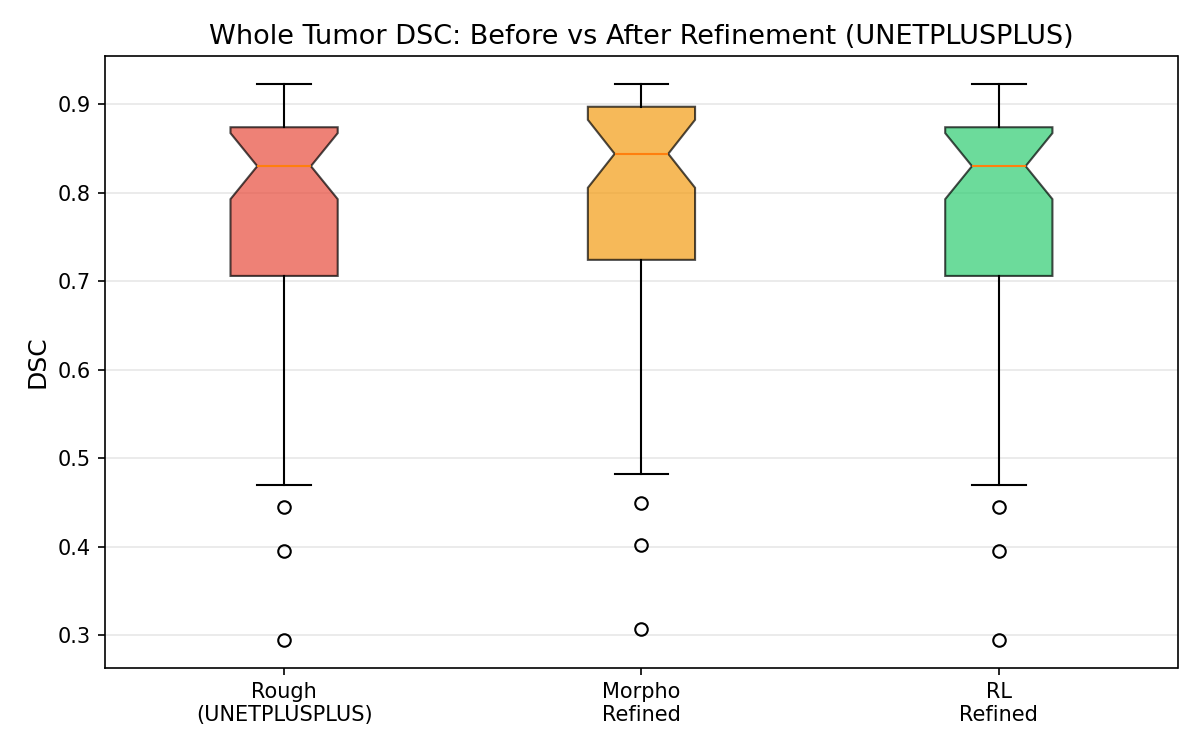
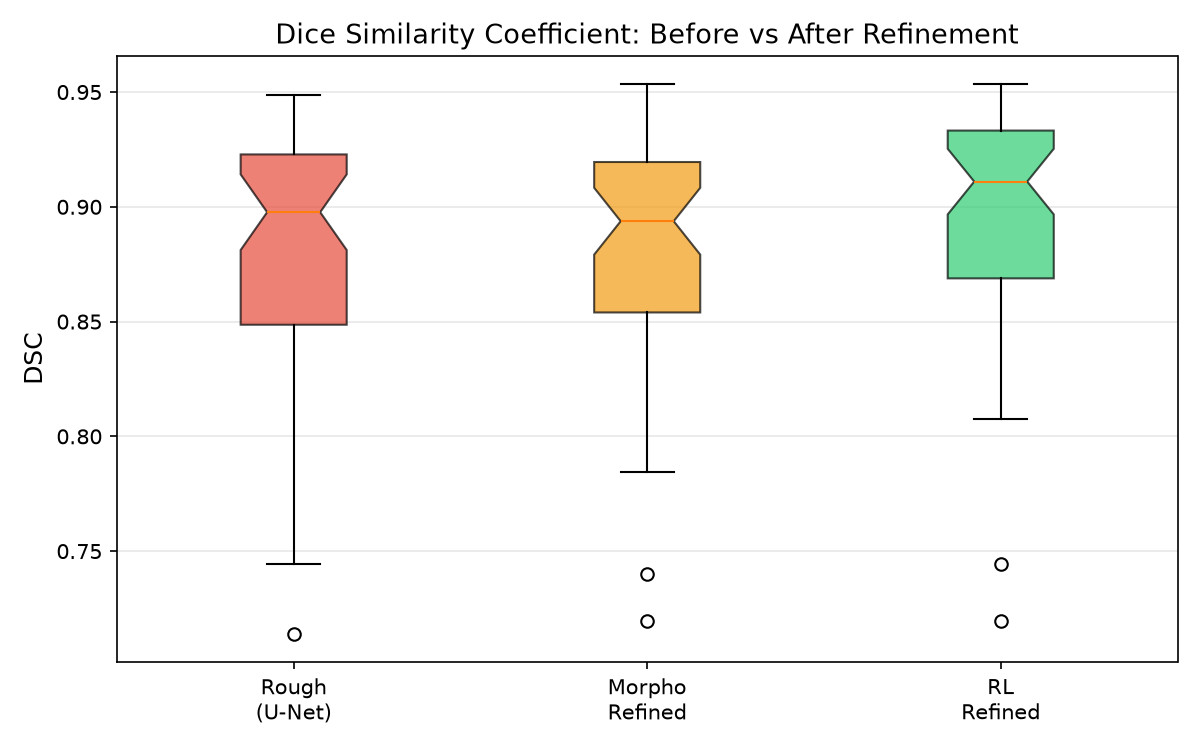
feat: Add class-specific filtering to evaluate.py and regenerate class-specific comparison plots

diff --git a/evaluate.py b/evaluate.py
@@ -93,6 +93,12 @@ def rl_refine(
     model_type: str = "unet",
 ) -> np.ndarray:
     """안전한 PPO 에이전트 보정: 최전 DSC 마스크를 쫓아 반환 (OOD/과불 화안정 안전장치)."""
+    refinement_mode = "small"
+    if model_type == "unetplusplus":
+        refinement_mode = "medium"
+    elif model_type == "segresnet":
+        refinement_mode = "large"
+        
     env = MaskRefinementEnv(
         images=image[None],
         gt_masks=gt_mask[None],
@@ -100,6 +106,7 @@ def rl_refine(
         uncertainty_maps=uncertainty_map[None],
         max_steps=max_steps,
         model_type=model_type,
+        refinement_mode=refinement_mode,
     )
     obs, _ = env.reset(seed=0)
 
@@ -158,6 +165,28 @@ def evaluate(
         )
 
     images, gt_masks, rough_masks = dataset.get_numpy_arrays()
+
+    # 크기별 맞춤형 전문가 평가를 위한 데이터셋 필터링 (True Expert 적용)
+    filtered_indices = []
+    for idx in range(len(gt_masks)):
+        gt = gt_masks[idx]
+        area = np.sum(gt)
+        if model_type == "attention_unet" and area < 300:
+            filtered_indices.append(idx)
+        elif model_type == "unetplusplus" and 300 <= area < 700:
+            filtered_indices.append(idx)
+        elif model_type == "segresnet" and area >= 700:
+            filtered_indices.append(idx)
+        elif model_type not in ["attention_unet", "unetplusplus", "segresnet"]:
+            filtered_indices.append(idx)
+            
+    if len(filtered_indices) > 0:
+        images = images[filtered_indices]
+        gt_masks = gt_masks[filtered_indices]
+        rough_masks = rough_masks[filtered_indices]
+        log.info(f"[{model_type.upper()} Expert] 평가 데이터 필터링 완료: {len(images)}개 슬라이스 사용")
+    else:
+        log.warning(f"[{model_type.upper()} Expert] 필터링 조건에 부합하는 슬라이스가 없습니다. 전체 데이터를 사용합니다.")
 
     # 세그멘테이션 모델 로드 (있으면)
     unet = None
